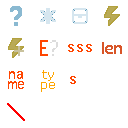
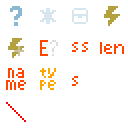
Changing sprites

diff --git a/Values/SpecialValue.cs b/Values/SpecialValue.cs
@@ -1,0 +1,89 @@
+using System;
+using System.Collections.Generic;
+using System.Linq;
+using System.Text;
+using System.Threading.Tasks;
+using TerraIntegration.Basic;
+using TerraIntegration.DataStructures;
+
+namespace TerraIntegration.Values
+{
+    public class SpecialValue : VariableValue
+    {
+        public override string TypeName => "special";
+        public override string TypeDefaultDisplayName => "Variable";
+
+        public override SpriteSheetPos SpriteSheetPos => new(BasicSheet, 0, 3);
+
+        public Type VariableType { get; set; }
+        public ReturnType[] VariableSubTypes { get; set; }
+        public Guid VariableId { get; set; }
+
+        public SpecialValue() { }
+        public SpecialValue(Variable var, params ReturnType[] subTypes) 
+        {
+            VariableType = var.GetType();
+            VariableSubTypes = subTypes;
+            VariableId = var.Id;
+        }
+
+        public override string FormatReturnSubtypes(ReturnType[] subTypes, bool colored)
+        {
+            string sub = subTypes[0].SubType is null ? null : string.Join(", ", subTypes[0].SubType.Select(t => t.ToStringName(colored)));
+
+            string name = Variable.ByType.TryGetValue(subTypes[0].Type, out Variable var) ? var.TypeDisplayName : "Unregistered";
+
+            return " " + name + (sub.IsNullEmptyOrWhitespace() ? "" : " of " + sub);
+        }
+
+        public override bool Equals(VariableValue value)
+        {
+            return value is SpecialValue spec &&
+                VariableType == spec.VariableType &&
+                VariableId == spec.VariableId &&
+                Util.ObjectsNullEqual(VariableSubTypes, spec.VariableSubTypes);
+        }
+
+        public Variable GetVariable(ComponentSystem system, List<Error> errors)
+        {
+            return system?.GetVariable(VariableId, errors);
+        }
+
+        public T GetVariable<T>(ComponentSystem system, List<Error> errors, TypeIdentity id) where T : Variable
+        {
+            return system?.GetVariable<T>(VariableId, errors, id);
+        }
+
+        public static T GetVariableOrNull<T>(Variable var, ComponentSystem system, List<Error> errors) where T : Variable
+        {
+            if (var is null)
+                return null;
+
+            if (var is T tvar)
+                return tvar;
+
+            if (!var.VariableReturnType.MatchNull(ReturnTypeOf<T>()))
+                return null;
+
+            SpecialValue spec = var.GetValue(system, errors) as SpecialValue;
+            if (spec is null)
+                return null;
+
+            return spec.GetVariable(system, errors) as T;
+        }
+
+        public override ReturnType GetReturnType()
+        {
+            return ReturnTypeOf(VariableType, VariableSubTypes);
+        }
+
+        public static ReturnType ReturnTypeOf<TVar>(params ReturnType[] subTypes) where TVar : Variable
+        {
+            return new(typeof(SpecialValue), new ReturnType(typeof(TVar), subTypes));
+        }
+        public static ReturnType ReturnTypeOf(Type variable, params ReturnType[] subTypes)
+        {
+            return new(typeof(SpecialValue), new ReturnType(variable, subTypes));
+        }
+    }
+}

diff --git a/ValueProperties/Collection/Take.cs b/ValueProperties/Collection/Take.cs
@@ -15,6 +15,8 @@ namespace TerraIntegration.ValueProperties.Collection
         public override string TypeName => "take";
         public override string TypeDefaultDisplayName => "Take";
         public override string TypeDefaultDescription => "Gets specified amount of values from start collection";
+        
+        public override SpriteSheetPos SpriteSheetPos => new(CollectionSheet, 3, 0);
 
         public ReturnType CollectionType => collectionType ??= ICollection.TryGetCollectionType(VariableReturnType?.Type);
 

diff --git a/ValueProperties/Collection/Index.cs b/ValueProperties/Collection/Index.cs
@@ -18,6 +18,8 @@ namespace TerraIntegration.ValueProperties.Collection
         public override string TypeDefaultDisplayName => "Index";
         public override string TypeDefaultDescription => "Gets value from collection at specified index";
 
+        public override SpriteSheetPos SpriteSheetPos => new(CollectionSheet, 1, 0);
+
         List<VariableValue> ValueList;
 
         public override Type[] GetValidRightConstantSlotTypes(ReturnType leftSlotType) => new[] { typeof(Integer) };

diff --git a/Values/CollectionList.cs b/Values/CollectionList.cs
@@ -18,6 +18,8 @@ namespace TerraIntegration.Values
         public override string TypeDefaultDisplayName => $"{TypeToName<Interfaces.ICollection>()} of {CollectionType.ToStringName(true)}";
         public ReturnType CollectionType { get; private set; }
 
+        public override SpriteSheetPos SpriteSheetPos => new(BasicSheet, 0, 2);
+
         public IEnumerable<VariableValue> Enumerable { get; private set; }
 
         public override bool HideInProgrammer => true;
